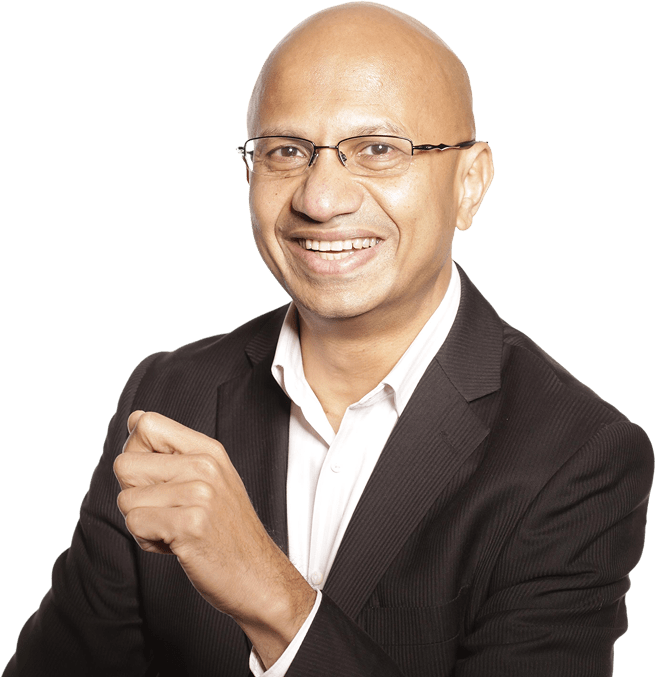
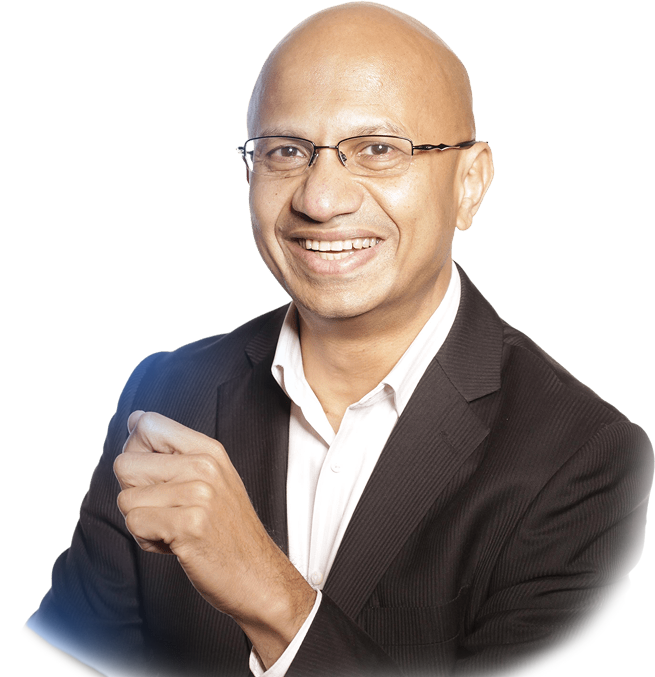
Update CTA text and remove image fades

diff --git a/src/components/site/home/hero.tsx b/src/components/site/home/hero.tsx
@@ -28,7 +28,7 @@ export function HomeHero() {
         <div className="absolute bottom-[-10%] right-[-15%] w-[60vw] h-[60vw] rounded-full bg-indigo-300/10 blur-[80px] animate-[mobile-drift-b_18s_ease-in-out_infinite]" />
       </div>
 
-      <div className="relative z-10 mx-auto grid max-w-7xl grid-cols-1 items-center gap-8 sm:gap-16 px-4 sm:px-6 lg:grid-cols-[1.08fr_1fr] lg:gap-12 lg:px-8">
+      <div className="relative z-10 mx-auto grid max-w-7xl grid-cols-1 items-center gap-8 sm:gap-16 px-4 sm:px-6 lg:grid-cols-[1fr_1.25fr] lg:gap-8 lg:px-8">
         {/* Left Column: Typography & CTAs — second on mobile, first on desktop */}
         <div className="order-2 lg:order-none relative z-20 flex flex-col items-start justify-center text-left">
           
@@ -39,8 +39,10 @@ export function HomeHero() {
           
           {/* H1 Headline */}
           <h1 className="opacity-0 animate-fade-in-up text-[2.6rem] leading-[1.1] sm:text-5xl md:text-7xl lg:text-8xl font-extrabold tracking-tight text-slate-900 [animation-delay:200ms]">
-            Master the noise. Lead with{" "}
-            <span className="font-serif italic font-normal text-blue-600">precision.</span>
+            Master the noise. Lead{" "}
+            <span className="whitespace-nowrap">with{" "}
+              <span className="font-serif italic font-normal text-blue-600">precision.</span>
+            </span>
           </h1>
           
           {/* Subtext */}
@@ -79,7 +81,7 @@ export function HomeHero() {
             // Desktop: revert to the original floating style
             "sm:rounded-none sm:overflow-visible sm:shadow-none sm:border-0 sm:bg-transparent",
             // Sizing
-            "mx-auto max-w-full sm:max-w-lg md:max-w-2xl md:ml-auto lg:mx-0 lg:mt-10",
+            "mx-auto max-w-full sm:max-w-lg md:max-w-2xl lg:max-w-none md:ml-auto lg:mx-0 lg:mt-10",
           ].join(" ")}
         >
 
@@ -124,11 +126,11 @@ export function HomeHero() {
             </div>
           </div>
 
-          {/* ── DESKTOP: original floating photo (unchanged) ─────────────── */}
-          <div className="hidden sm:block relative">
-            {/* Decorative rings */}
+          {/* ── DESKTOP: scaled-up floating photo ─────────────────────── */}
+          <div className="hidden sm:block relative lg:scale-[1.18] lg:origin-right lg:[transform-origin:right_center]">
+            {/* Decorative rings — scale proportionally with the wrapper */}
             <div className="absolute -inset-6 -z-10 rounded-full border border-blue-500/15" aria-hidden="true" />
-            <div className="absolute -inset-14 -z-10 hidden sm:block rounded-full border border-blue-500/10" aria-hidden="true" />
+            <div className="absolute -inset-14 -z-10 rounded-full border border-blue-500/10" aria-hidden="true" />
 
             <Image
               src="/brand/vajira-avatar-zoomed.png"
@@ -136,12 +138,12 @@ export function HomeHero() {
               width={700}
               height={700}
               priority
-              className="object-contain drop-shadow-2xl [mask-image:linear-gradient(to_bottom,black_60%,transparent_100%)]"
+              className="object-contain drop-shadow-2xl"
               sizes="(max-width: 1024px) 100vw, 50vw"
             />
 
-            {/* Floating proof card — desktop/tablet only */}
-            <div className="hidden sm:flex absolute bottom-10 -left-10 z-20 items-center gap-3 rounded-2xl border border-slate-200 bg-white/90 px-6 py-4 shadow-[0_20px_45px_-20px_rgba(15,23,42,0.25)] backdrop-blur-md">
+            {/* Floating proof card — badge scales with wrapper, offset adjusted for scale */}
+            <div className="hidden sm:flex absolute bottom-10 -left-6 lg:-left-2 z-20 items-center gap-3 rounded-2xl border border-slate-200 bg-white/90 px-6 py-4 shadow-[0_20px_45px_-20px_rgba(15,23,42,0.25)] backdrop-blur-md">
               <span className="font-accent text-3xl italic font-semibold text-blue-600">30+</span>
               <span className="max-w-[7rem] text-xs font-semibold uppercase leading-tight tracking-[0.08em] text-slate-500">
                 Years leading global teams

diff --git a/src/components/site/home/final-cta.tsx b/src/components/site/home/final-cta.tsx
@@ -64,7 +64,7 @@ export function FinalCta() {
             href={BOOK_CALL_HREF}
             className="group mt-10 inline-flex items-center gap-3 rounded-full bg-blue-600 px-8 py-4 text-sm font-bold uppercase tracking-widest text-white transition-all duration-300 ease-out hover:scale-105 hover:shadow-[0_0_40px_rgba(59,130,246,0.4)]"
           >
-            INITIATE THE CONVERSATION
+            BOOK A CALL
             <ArrowRight className="size-5 transition-transform duration-300 ease-out group-hover:translate-x-2" strokeWidth={2.5} />
           </Link>
         </div>

diff --git a/src/app/(marketing)/contact/page.tsx b/src/app/(marketing)/contact/page.tsx
@@ -57,7 +57,7 @@ export default function ContactPage() {
               width={800}
               height={800}
               priority
-              className="w-full h-auto object-contain [mask-image:linear-gradient(to_bottom,black_60%,transparent_100%)] drop-shadow-2xl"
+              className="w-full h-auto object-contain drop-shadow-2xl"
               sizes="(max-width: 1024px) 100vw, 50vw"
             />
           </div>

diff --git a/src/app/(marketing)/about/page.tsx b/src/app/(marketing)/about/page.tsx
@@ -61,7 +61,7 @@ export default function AboutPage() {
               width={800}
               height={800}
               priority
-              className="w-full h-auto object-contain [mask-image:linear-gradient(to_bottom,black_60%,transparent_100%)] drop-shadow-2xl"
+              className="w-full h-auto object-contain drop-shadow-2xl"
               sizes="(max-width: 1024px) 100vw, 50vw"
             />
           </div>

diff --git a/src/app/(marketing)/executive-coaching/page.tsx b/src/app/(marketing)/executive-coaching/page.tsx
@@ -46,7 +46,7 @@ export default function ExecutiveCoachingPage() {
             alt: "Vajira Weerasekara",
             sizes: "690px",
           }}
-          imageClassName="[mask-image:linear-gradient(to_bottom,black_60%,transparent_100%)]"
+          imageClassName=""
           containerClassName="lg:grid-cols-[1fr_minmax(0,690px)] relative z-10"
         />
       </div>
